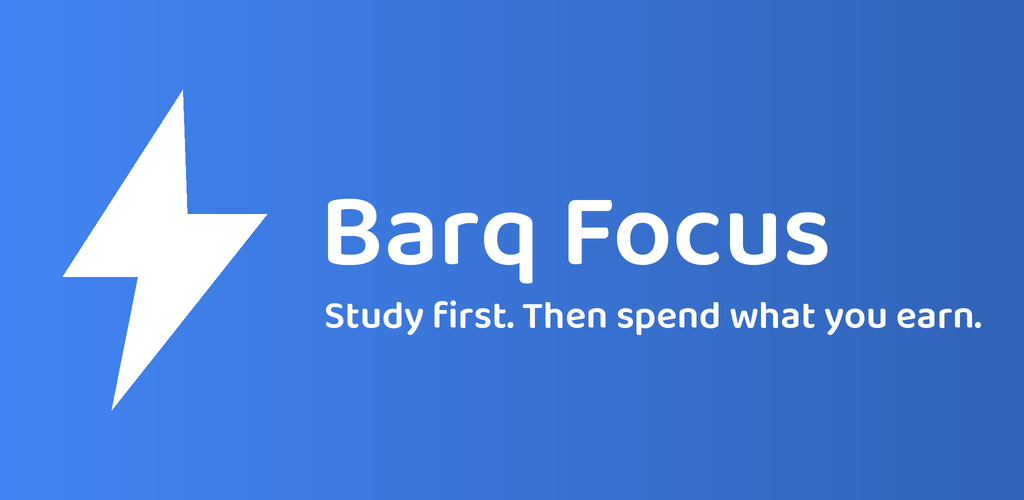
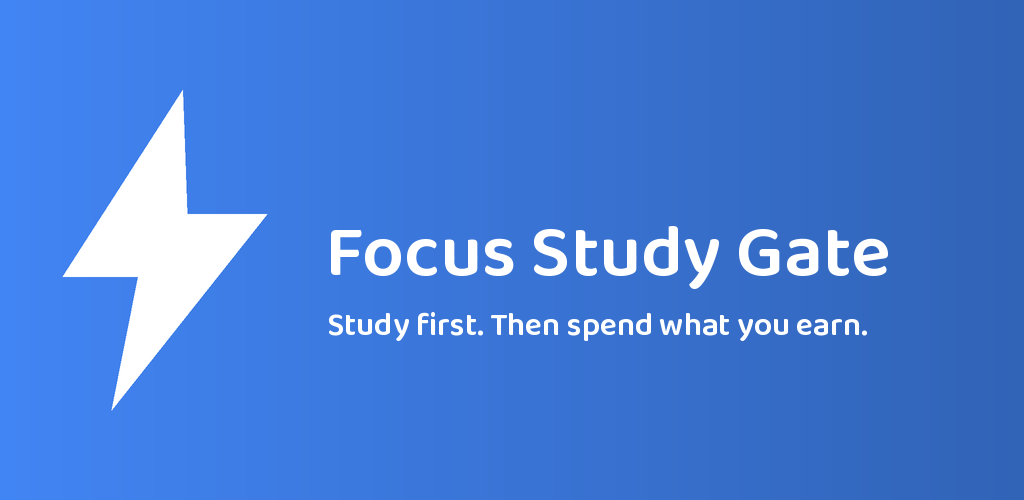
Rename app to Focus Study Gate, add Dare Taker badge for Challenge me (0.23.1)
Claude-Session: https://claude.ai/code/session_017yRFSjWb35FDNWHHSdeV38

Changed region(s): [[0.3125, 0.39, 0.875, 0.57], [0.3125, 0.6, 0.9688, 0.69]]

diff --git a/app/src/main/java/com/barq/focus/data/Game.kt b/app/src/main/java/com/barq/focus/data/Game.kt
@@ -47,6 +47,7 @@ object Game {
         Badge("dumper", "🧠", K("Brain Dumper"), K("Park 5 thoughts instead of chasing them.")),
         Badge("worm", "📚", K("Bookworm"), K("Add 3 PDFs or read 100 pages.")),
         Badge("poly", "🌍", K("Polyglot"), K("Use Focus in another language.")),
+        Badge("dare", "🎲", K("Dare Taker"), K("Accept 5 challenges from the Challenge me button.")),
         Badge("treat", "🍿", K("Treat Yourself"), K("Earn 40 minutes of treats in one day.")),
         // hall of shame: hidden until you earn them
         Badge("goat_neglect", "🐐", K("Goat Neglecter"), K("3 days in a row with tasks on the plate and none done. Come back before it's too late."), shame = true),
@@ -168,6 +169,7 @@ object Game {
         if (pdfs.size >= 3 || pdfs.sumOf { it.lastPage } >= 100) unlock("worm")
         if (store.lang != "en") unlock("poly")
         if (treatDay) unlock("treat")
+        if (store.challengesAccepted() >= 5) unlock("dare")
 
         // shame: tasks were planned, nothing got done, three days running
         var idle = 0; var worstIdle = 0

diff --git a/app/src/main/java/com/barq/focus/ui/SubjectScreen.kt b/app/src/main/java/com/barq/focus/ui/SubjectScreen.kt
@@ -218,7 +218,7 @@ fun SubjectScreen(store: Store, initial: FocusCard, onExit: () -> Unit) {
                 running, paused, endAt, pausedLeft, card.minutes * 60_000L, nowState, col, compact,
                 onPlayPause = {
                     when {
-                        !running -> { store.startActive(card.id, System.currentTimeMillis() + card.minutes * 60_000L); refresh() }
+                        !running -> { store.startActive(card.id, System.currentTimeMillis() + card.minutes * 60_000L); store.challengeAccepted(); refresh() }
                         paused -> { store.resumeActive(); refresh() }
                         else -> { store.pauseActive(); refresh() }
                     }

diff --git a/app/src/main/java/com/barq/focus/data/Store.kt b/app/src/main/java/com/barq/focus/data/Store.kt
@@ -530,6 +530,8 @@ class Store(ctx: Context) {
         val o = JSONObject(p.getString("badges", "{}") ?: "{}")
         if (!o.has(id)) { o.put(id, dayKey); p.edit().putString("badges", o.toString()).apply() }
     }
+    fun challengesAccepted() = p.getInt("challenges_accepted", 0)
+    fun challengeAccepted() { p.edit().putInt("challenges_accepted", challengesAccepted() + 1).apply() }
     fun flagSet(name: String) = p.getBoolean(name, false)
     fun setFlagNamed(name: String) { p.edit().putBoolean(name, true).apply() }
     val today: Int get() = day()

diff --git a/README.md b/README.md
@@ -1,12 +1,12 @@
 <div align="center">
 
-# Barq Focus
+# Focus Study Gate
 
 **Study on purpose. Use your phone on purpose.**
 
 A private, open-source Android app that turns your study plan into a reward system and puts a soft gate in front of the apps that eat your time.
 
-[![Version](https://img.shields.io/badge/version-0.23.0--beta-4285F4?style=flat-square)](#install)
+[![Version](https://img.shields.io/badge/version-0.23.1--beta-4285F4?style=flat-square)](#install)
 [![License: AGPL-3.0-only](https://img.shields.io/badge/license-AGPL--3.0--only-34A853?style=flat-square)](LICENSE)
 [![Platform](https://img.shields.io/badge/platform-Android%208.0%2B-3DDC84?style=flat-square&logo=android&logoColor=white)](#install)
 [![Internet](https://img.shields.io/badge/internet%20permission-none-2e8b57?style=flat-square)](PRIVACY.md)
@@ -37,7 +37,7 @@ A private, open-source Android app that turns your study plan into a reward syst
 
 ## What is Focus?
 
-Barq Focus (package `com.barq.focus`, called just "Focus" inside the app) is built on one idea: **finish your work first, then spend what you earned.**
+Focus Study Gate (package `com.barq.focus`, called just "Focus" inside the app) is built on one idea: **finish your work first, then spend what you earned.**
 
 You split your day into subjects with task lists and generous timers. Each subject carries a reward, and finishing tasks fills a daily **treat bank** of minutes. You spend those minutes at the **gate** in front of distracting apps, on Shorts/Reels, or on the built-in player. When the bank is empty, the gate offers short free passes behind a countdown, or lets you leave.
 
@@ -75,7 +75,7 @@ Everything runs on your phone. There is no account, no server, and the manifest 
 ### Motivation
 
 - Streaks, XP and levels.
-- 30 badges, including 10 hidden "Hall of Shame" ones. See [Badges and XP](docs/guides/badges.md).
+- 31 badges, including 10 hidden "Hall of Shame" ones. See [Badges and XP](docs/guides/badges.md).
 - 17 short games for breaks. See [Games](docs/guides/games.md).
 - Four home-screen widgets: **Treat bank**, **Streak**, **Shorts**, and **Today** with a block per subject. See [Widgets](docs/guides/widgets.md).
 
@@ -106,7 +106,7 @@ The full picture is in [Architecture overview](docs/architecture/overview.md).
 
 ## Install
 
-> Focus is currently a **beta** (`0.23.0-beta`, version code 39). Requires **Android 8.0 (API 26)** or newer.
+> Focus is currently a **beta** (`0.23.1-beta`, version code 40). Requires **Android 8.0 (API 26)** or newer.
 
 ### Build from source
 

diff --git a/README.ar.md b/README.ar.md
@@ -57,7 +57,7 @@
 ### التحفيز
 
 - سلاسل أيام ونقاط خبرة ومستويات.
-- 30 وسامًا، منها 10 أوسمة مخفية في «قاعة العار». انظر [الأوسمة والخبرة](docs/guides/badges.md).
+- 31 وسامًا، منها 10 أوسمة مخفية في «قاعة العار». انظر [الأوسمة والخبرة](docs/guides/badges.md).
 - 17 لعبة قصيرة للاستراحة. انظر [الألعاب](docs/guides/games.md).
 - أربع أدوات للشاشة الرئيسية: **رصيد المكافآت** و**السلسلة** و**شورتس** و**اليوم** (بمربع لكل مادة). انظر [الأدوات](docs/guides/widgets.md).
 

diff --git a/docs/guides/distribution.md b/docs/guides/distribution.md
@@ -5,7 +5,7 @@ Where Focus can be published and what each place needs. The store texts live in 
 ## Before any store
 
 1. Add the images to `fastlane/metadata/android/en-US/images/`: `icon.png` (512x512) and 4 to 8 phone screenshots in `phoneScreenshots/`. See the README in that folder.
-2. Tag every release (`v0.23.0-beta`) and attach the release-signed APK to the GitHub release. The tag must match `versionName`.
+2. Tag every release (`v0.23.1-beta`) and attach the release-signed APK to the GitHub release. The tag must match `versionName`.
 3. Add a changelog file for each new version code: `fastlane/metadata/android/en-US/changelogs/<versionCode>.txt`, 500 characters at most.
 
 ## GitHub and Obtainium

diff --git a/docs/guides/badges.md b/docs/guides/badges.md
@@ -39,6 +39,7 @@ Level titles, in order: Couch Potato, Distracted Intern, Focus Apprentice, Task 
 | 🧠 | **Brain Dumper** | Park 5 thoughts instead of chasing them. |
 | 📚 | **Bookworm** | Add 3 PDFs or read 100 pages. |
 | 🌍 | **Polyglot** | Use Focus in another language. |
+| 🎲 | **Dare Taker** | Accept 5 challenges from the Challenge me button. |
 | 🍿 | **Treat Yourself** | Earn 40 minutes of treats in one day. |
 | 🔥 | **Comeback Kid** | Clear the whole plate after earning a shame badge. |
 

diff --git a/CHANGELOG.md b/CHANGELOG.md
@@ -2,6 +2,14 @@
 
 Versions follow `versionName` in `app/build.gradle.kts`. All releases are betas.
 
+## 0.23.1-beta (version code 40)
+
+### Added
+- **Dare Taker badge** (🎲): accept 5 cards from Challenge me (press Start timer in the challenge banner). 31 badges now.
+
+### Changed
+- **The app is now called Focus Study Gate** (launcher and accessibility settings). Package name `com.barq.focus` is unchanged, so updating keeps your data.
+
 ## 0.23.0-beta (version code 39)
 
 ### Added
